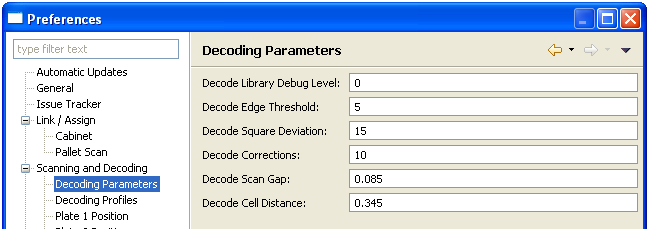
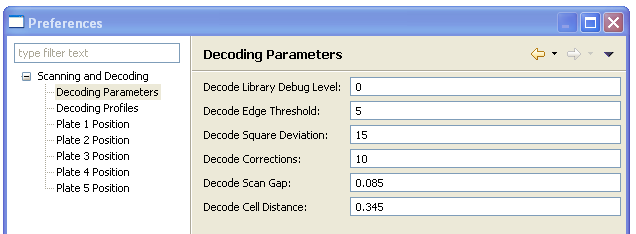
updated user guide images in configuration chapter

diff --git a/docs/userGuide/configuration.tex b/docs/userGuide/configuration.tex
@@ -10,8 +10,7 @@ The configuration settings for the Java Client can be found by selecting
       \label{fig:preferences_dialog}
     \end{figure}
 A configuration page can be selected by clicking on a node on the
-tree on the left hand side of the dialog box. The \texttt{filter text} box, see
-arrow labelled \emph{1} in figure \ref{fig:preferences_dialog}, can
+tree on the left hand side of the dialog box. The \texttt{filter text} box can
 be used to quickly find a configuration page by typing the name of the page in
 whole or in part.
 
@@ -166,7 +165,7 @@ To define a pallet scanning region do the following:
     \emph{Cell Gap}).
     \begin{figure}[H]
       \centering
-      \scalebox{0.5}
+      \scalebox{0.75}
       { \includegraphics*{screenshots/configuration/plate1_grid_ready} }
       \caption{Grid aligned with tubes.}
       \label{fig:plate1_grid_ready}
@@ -191,21 +190,4 @@ Note that cell A1 should be at the \emph{Top Left} when configuring a plate in
 orientation when looking down at the scanner's flatbed.
 
 To test if your configuration will yield valid decodes use the
-\texttt{Scanner -> Decode Plate} from the main menu.
-\subsection{Plate Barcodes}
-To speed up processing of samples, a handheld barcode scanner can be used to
-quickly enter information into the application. Barcodes with the corresponding
-words can be printed and then scanned when required by the application (See
-sections \ref{sec:scan_link} and \ref{sec:scan_assign}). The \textbf{Plate
-  \emph{x} barcode} settings contain the text encoded into these barcodes when
-they were created.
-    \begin{figure}[H]
-      \centering
-      \scalebox{0.45}
-      { \includegraphics*{screenshots/configuration/prefs_plate_barcodes} }
-      \caption{Plate barcode preferences.}
-      \label{fig:prefs_plate_barcodes}
-    \end{figure}
-
-
-
+\texttt{Scanner $\to$ Decode Plate} from the main menu.

diff --git a/docs/userGuide/overview.tex b/docs/userGuide/overview.tex
@@ -1,22 +1,10 @@
 \chapter{Overview}
-The BioBank2 Java Client is designed to be a client application that connects
-to a BioBank2 server that provides services for storing inventory information
-for biological samples. More than one client can connect to the server at the
-same time. The client is a software application that runs on Microsoft Windows
-and Linux\footnote{The scanner cannot be used when using the application on
-  Linux.}. The client software is a Java application and requires that a Java
-JRE or JDK be installed on the computer. The installation program for the
-client installs a Java JRE if it is not already present on the computer.
-
-When running on Microsoft Windows, the client can communicate with scanners
-that use either TWAIN\footnote{\url{http://en.wikipedia.org/wiki/TWAIN}} or
+The CBSR Sample Scanner is a Microsoft Windows application that decodes
+DataMatrix encoded tubes to be decoded. It communicates with a scanner that
+uses either TWAIN\footnote{\url{http://en.wikipedia.org/wiki/TWAIN}} or
 WIA\footnote{\url{http://en.wikipedia.org/wiki/Windows_Image_Acquisition}}
 drivers. Most scanners available on the market provide these
-drivers. Therefore, most scanners work with the client software.
-
-The client does not store any inventory information on the computer that it
-runs on. All the information is stored on the server. Any client connecting to
-this server will be able to see all the information on the server.
+drivers.
 
 Figure \ref{fig:main_window} shows the application's main window and highlights
 some of its components.
@@ -24,7 +12,7 @@ some of its components.
   \centering
   \scalebox{0.4}
 	   { \includegraphics*{screenshots/overview/main_window} }
-	   \caption{The Java Client's main window.}
+	   \caption{The CBSR Sample Scanner's main window.}
 	   \label{fig:main_window}
 \end{figure}
 \begin{description}
